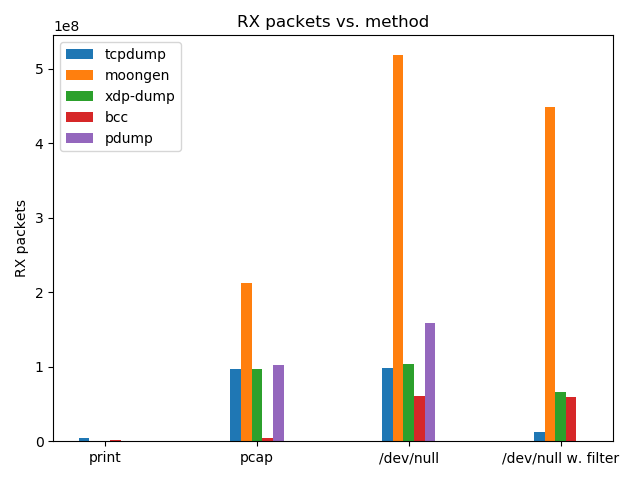
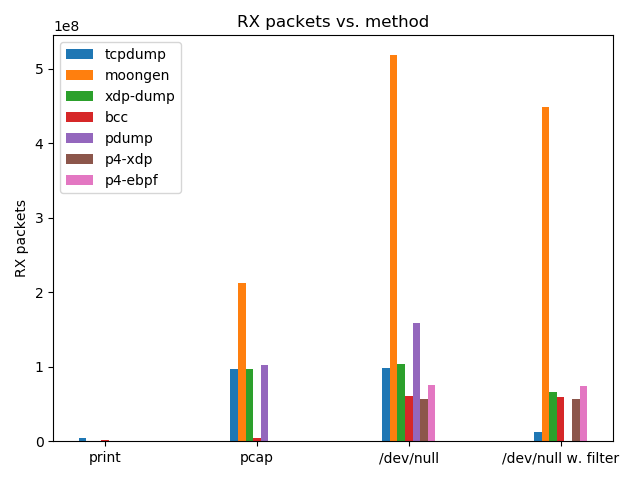
results for p4-ebpf and p4-xdp

diff --git a/Methods_comparison/plot.py b/Methods_comparison/plot.py
@@ -7,22 +7,28 @@ moongen = [279853, 212805119, 518657863, 448772404]
 pdump = [0, 102185086, 158297349, 0]
 xdp = [892457, 97197078, 103568567, 66722471]
 bcc = [1412441, 4190632, 61040784, 59974560]
+p4_ebpf = [0, 0, 75746418 ,74753022]
+p4_xdp = [0, 0, 56924483, 56543853]
 
 tcpdump_loss = [99.56, 88.71, 88.53, 98.57]
 moongen_loss = [99.97, 75.33, 40.01, 48.13]
 pdump_loss = [0, 88.20,  81.75, 0]
 xdp_loss = [99.9, 88.67, 88, 92.24]
 bcc_loss = [99.84, 99.52, 92.69, 93.12]
+p4_ebpf_loss = [0, 0, 91.27 ,91.39]
+p4_xdp_loss = [0, 0, 93.44, 93.50]
 
 x = np.arange(len(labels))  # the label locations
 width = 0.35  # the width of the bars
 
 fig, ax = plt.subplots()
-rects1 = ax.bar(x - 2*width/5, tcpdump_loss, width/5, label='tcpdump')
-rects2 = ax.bar(x - width/5, moongen_loss, width/5, label='moongen')
-rects3 = ax.bar(x, xdp_loss, width/5, label='xdp-dump')
-rects4 = ax.bar(x + width/5, bcc_loss, width/5, label='bcc')
-rects5 = ax.bar(x + 2*width/5, pdump_loss, width/5, label='pdump')
+rects1 = ax.bar(x - 3*width/7, tcpdump_loss, width/7, label='tcpdump')
+rects2 = ax.bar(x - 2*width/7, moongen_loss, width/7, label='moongen')
+rects3 = ax.bar(x - width/7, xdp_loss, width/7, label='xdp-dump')
+rects4 = ax.bar(x, bcc_loss, width/7, label='bcc')
+rects5 = ax.bar(x + width/7, pdump_loss, width/7, label='pdump')
+rects6 = ax.bar(x + 2*width/7, p4_xdp_loss, width/7, label='p4-xdp')
+rects7 = ax.bar(x + 3*width/7, p4_ebpf_loss, width/7, label='p4-ebpf')
 
 # Add some text for labels, title and custom x-axis tick labels, etc.
 ax.set_ylabel('Packet Loss')
@@ -36,11 +42,13 @@ fig.tight_layout()
 plt.savefig("pkt_loss.png")
 
 fig, ax = plt.subplots()
-rects1 = ax.bar(x - 2*width/5, tcpdump, width/5, label='tcpdump')
-rects2 = ax.bar(x - width/5, moongen, width/5, label='moongen')
-rects3 = ax.bar(x, xdp, width/5, label='xdp-dump')
-rects4 = ax.bar(x + width/5, bcc, width/5, label='bcc')
-rects5 = ax.bar(x + 2*width/5, pdump, width/5, label='pdump')
+rects1 = ax.bar(x - 3*width/7, tcpdump, width/7, label='tcpdump')
+rects2 = ax.bar(x - 2*width/7, moongen, width/7, label='moongen')
+rects3 = ax.bar(x - width/7, xdp, width/7, label='xdp-dump')
+rects4 = ax.bar(x, bcc, width/7, label='bcc')
+rects5 = ax.bar(x + width/7, pdump, width/7, label='pdump')
+rects6 = ax.bar(x + 2*width/7, p4_xdp, width/7, label='p4-xdp')
+rects7 = ax.bar(x + 3*width/7, p4_ebpf, width/7, label='p4-ebpf')
 
 # Add some text for labels, title and custom x-axis tick labels, etc.
 ax.set_ylabel('RX packets')
